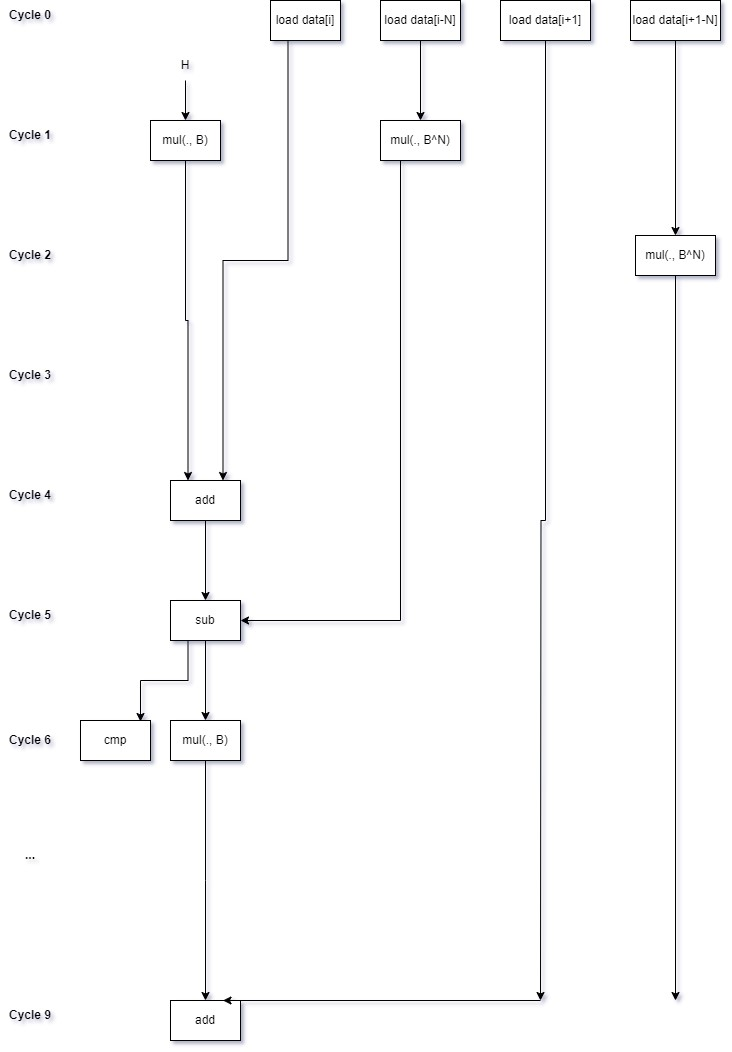
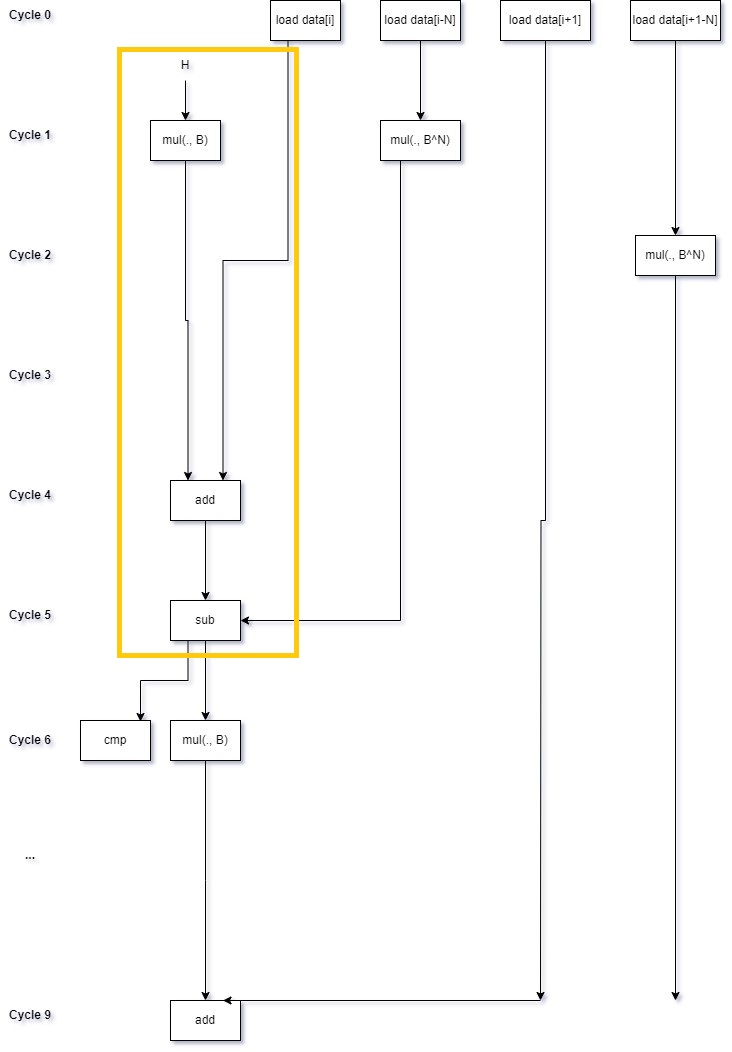
More clarity

Changed region(s): [[0.1503, 0.0304, 0.4208, 0.6388]]

diff --git a/_posts/2024-03-02-rabin-karp.md b/_posts/2024-03-02-rabin-karp.md
@@ -21,7 +21,7 @@ I should point out a few things about the benchmarking code provided by Lemire, 
 
 2. The reported throughput is the **maximum** recorded throughput per run. This isn't necessarily a bad choice, but it can make the result a bit unstable. We changed that to reflect the average throughput over all runs. No results were substantially affected by this change.
 
-3. The choice of $$31$$ as the default evaluation point for the polynomial means that if the method gets inlined, and your compiler is aggressive enough (as clang is), you can end up with a highly specialized and very fast implementation being emitted, that elides the multiplications, and which will confound all of your benchmarks. Lemire seems to be aware of this, and has `__attribute__(noinline)`everywhere. If you want to add methods to experiment with using his test harness, you'll want to make sure to add that attribute to those methods.
+3. The choice of $$31$$ as the default evaluation point for the polynomial means that if the method gets inlined, and your compiler is aggressive enough (as clang is), you can end up with a highly specialized and very fast implementation being emitted that elides the multiplications (`x*31 => (x << 5) - x`), and which will confound all of your benchmarks. Lemire seems to be aware of this, and has `__attribute__(noinline)`everywhere. If you want to add methods to experiment with using his test harness, you'll want to make sure to add that attribute to those methods.
 
 4. I have tried to stay aligned with the conventions and naming from Lemire's code. This may lead to some strange-looking style mismatches in the code.
 
@@ -148,7 +148,7 @@ $$
 
 We clearly cannot start to compute $$H_2$$ before we have computed $$H_1$$, and so must wait to issue the multiplication $$B*H_1$$ until we have computed $$H_1$$, which involves computing $$B*H_0$$, which takes at least 4 cycles. This is what's known as a *loop-carried dependency*. The processor can try to stay busy by executing the other operations while the multiply is running, but ultimately the latency of the multiplication puts a limit on the overall throughput.
 
-To see this, I find it helpful to draw out the computation graph over time ([here is a very good overview of the general technique](https://fgiesen.wordpress.com/2018/03/05/a-whirlwind-introduction-to-dataflow-graphs/)). Time flows downward, and arrows represent data dependencies between instructions. I've drawn out part of an iteration of an unrolled loop (I only included the loads for two windows to avoid cluttering things up too much):
+To see this, I find it helpful to draw out the computation graph over time ([here is a very good overview of the general technique](https://fgiesen.wordpress.com/2018/03/05/a-whirlwind-introduction-to-dataflow-graphs/)). Time flows downward, and arrows represent data dependencies between instructions. I've drawn out part of an iteration of an unrolled loop (I only included the loads for two windows to avoid cluttering things up too much). I've also highlighted the loop-carried dependency:
 
 ![df01](/assets/images/rabin-karp/dataflow01.jpg){: width="100%" }
 
@@ -420,9 +420,7 @@ $$
 
 So to determine if the hash matches the target, we just need to scale the target by $$B^n$$, before comparing them.
 
-
-
-Why is this an improvment? While we (paradoxically) actually have to compute more multiplications, we have gained something, namely that the multiplications can now all be issued at the same time. To illustrate this, let's consider the non-SIMD case. I've grouped instructions at the earliest cycle where they could execute. In practice, they will probably execute later, when an execution port becomes available. Values in registers are represented by diamonds.
+Why is this an improvment? While we (paradoxically) actually have to compute more multiplications, we have gained something, namely that the multiplications can now all be issued at the same time. To illustrate this, let's consider the non-SIMD case. I've grouped instructions at the earliest cycle where they could execute. In practice, they will probably execute later, when an execution port becomes available. Values in registers are represented by diamonds. As before, I've highlighted the chain dependency:
 
 ![df02](/assets/images/rabin-karp/dataflow02.jpg){: width="100%" }
 
@@ -523,6 +521,21 @@ return _mm256_extract_epi32(counts, 0)
 The reason I don't like this is that while `_mm256_cmpeq_epi32_mask` produces an output that can be used for actual string search, I cannot think of a good use case for simply counting the number of hash matches. But it was an interesting optimization, so I left it in.
 
 **<mark>This runs at 1.86 GB/s.</mark>**
+
+Update: A commenter on HackerNews points out that `0xFFFFFFFF` is just `-1` in two's complement arithmetic, there's no need to shift. Instead, just do this:
+
+```cpp
+__m256i counts = _mm256_setzero_si256();
+// ...
+matches = mm256_cmpeq_epi32(hashes, targets);
+counts = _mm256_sub_epi32(counts, matches);
+// ...
+return _mm256_extract_epi32(counts, 0)
+    + _mm256_extract_epi32(counts, 1)
+    + ...;
+```
+
+**<mark>This yields a modest improvement, to 1.89 GB/s.</mark>**
 
 ## Summary
 
